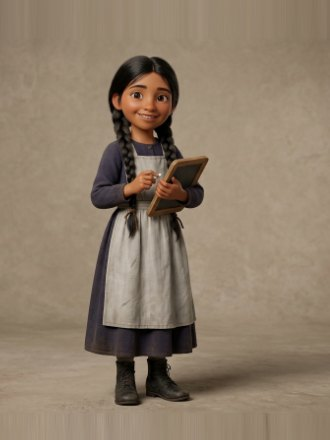
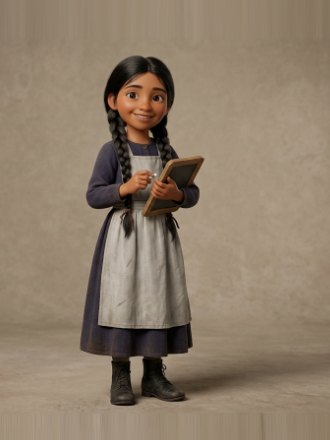
juego-12 Tema 3: la maestra tambien centrada (correccion amortiguada)
Dos laminas rebotaban sin converger porque aplicaba el desvio entero y
la medida cambia un poco al mover el recorte: la maestra iba -12, 10,
-9, 12 y se quedaba en 11 px. Ahora la correccion es del 60 %, hay
hasta ocho pasadas y se guarda el MEJOR encuadre visto, nunca el
ultimo. Las doce quedan con 2 px de desvio o menos.

diff --git a/juegos/juego-12/.planning/optimizar-j6t3.js b/juegos/juego-12/.planning/optimizar-j6t3.js
@@ -185,24 +185,34 @@ const ANCHO = 330, ALTO = 440, CALIDAD = 0.86;
         return peso ? suma / peso : ANCHO / 2;
       };
       let desvio = 0;
-      for (let paso = 0; paso < 3; paso++) {
+      // ⚠ La corrección va AMORTIGUADA (60 %) y se guarda el MEJOR encuadre visto.
+      // Con la corrección entera, dos láminas rebotaban sin parar (la maestra:
+      // -12 → 10 → -9 → 12 …): la medida cambia un poco al mover el recorte, así que
+      // aplicar el desvío completo se pasa de largo. Amortiguada converge, y quedarse
+      // con el mejor garantiza que nunca se guarda un encuadre peor que el visto.
+      const pasos = [];
+      let mejorD = Infinity, mejorX0 = cx0, mejorX1 = cx1;
+      for (let paso = 0; paso < 8; paso++) {
         pintar();
         desvio = medirCentro() - ANCHO / 2;
-        if (Math.abs(desvio) <= 3) break;
-        const corre = desvio / k;                    // de píxeles de salida a los de la lámina
-        cx0 += corre; cx1 += corre;
+        pasos.push(Math.round(desvio));
+        if (Math.abs(desvio) < Math.abs(mejorD)) { mejorD = desvio; mejorX0 = cx0; mejorX1 = cx1; }
+        if (Math.abs(desvio) <= 2) break;
+        cx0 += (desvio * 0.6) / k; cx1 += (desvio * 0.6) / k;   // de salida a la lámina
       }
+      cx0 = mejorX0; cx1 = mejorX1;
       pintar();
+      desvio = medirCentro() - ANCHO / 2;            // el de la imagen que de verdad se guarda
       // ⚠ El relleno NO puede ser un color plano: el fondo de las láminas es un degradado
       // con viñeta, así que un tono sacado de la esquina se nota como un marco (la autora
       // lo vio en la alumna). Se ESTIRA el propio borde de la lámina hacia afuera, que es
       // lo que hace cualquier editor, y la unión no se ve.
-      return { url: o.toDataURL("image/jpeg", q), desvio: Math.round(desvio), fig: [x0, y0, x1, y1], recorte: [Math.round(cx0), Math.round(cy0), Math.round(cx1), Math.round(cy1)] };
+      return { url: o.toDataURL("image/jpeg", q), desvio: Math.round(desvio), pasos: pasos, fig: [x0, y0, x1, y1], recorte: [Math.round(cx0), Math.round(cy0), Math.round(cx1), Math.round(cy1)] };
     }, [dataUrl, ANCHO, ALTO, CALIDAD]);
     if (!out) { console.log(f.padEnd(24) + "  ✗ no se encontró la figura: se deja igual"); continue; }
     const buf = Buffer.from(out.url.split(",")[1], "base64");
     fs.writeFileSync(src, buf); despues += buf.length;
-    console.log(f.padEnd(24) + Math.round(b0 / 1024) + " KB → " + Math.round(buf.length / 1024) + " KB   desvío final " + out.desvio + " px   figura x[" + out.fig[0] + "-" + out.fig[2] + "] y[" + out.fig[1] + "-" + out.fig[3] + "]  recorte " + out.recorte.join(","));
+    console.log(f.padEnd(24) + Math.round(b0 / 1024) + " KB → " + Math.round(buf.length / 1024) + " KB   desvío " + out.pasos.join("→") + " ⇒ " + out.desvio + " px   figura x[" + out.fig[0] + "-" + out.fig[2] + "] y[" + out.fig[1] + "-" + out.fig[3] + "]  recorte " + out.recorte.join(","));
   }
   console.log("\nTotal: " + Math.round(antes / 1024) + " KB → " + Math.round(despues / 1024) + " KB");
   console.log("Respaldo de los originales en: " + BAK);

diff --git a/juegos/juego-12/CLAUDE.md b/juegos/juego-12/CLAUDE.md
@@ -726,7 +726,11 @@ figura pequeña y descentrada; `.planning/optimizar-j6t3.js` las deja en **330×
 - ⚠ **El centrado se MIDE y se CORRIGE**: dibuja, mide la silueta en el resultado y
   reencuadra, hasta tres veces. Centrar por el torso falla porque un libro o un saco en la
   mano corren el centro de masa. Lo comprueba `.planning/centros-j6t3.js` (las doce con
-  3 px de desvío o menos sobre 330, salvo la maestra con 11).
+  2 px de desvío o menos sobre 330).
+- ⚠ **La corrección va AMORTIGUADA (60 %) y se guarda el mejor encuadre visto.** Con la
+  corrección entera, dos láminas rebotaban sin converger (la maestra: −12 → 10 → −9 → 12…):
+  la medida cambia un poco al mover el recorte, así que aplicar el desvío completo se pasa
+  de largo.
 - ⚠ **Se mide LA CABEZA, no la silueta entera.** Lo que la persona lleva al lado —la
   mesita de la oficinista, el saco del portuario, el vuelo de una falda— entra en la
   silueta y corre el centro: el número decía "centrada" con el cuerpo pegado a un borde,
